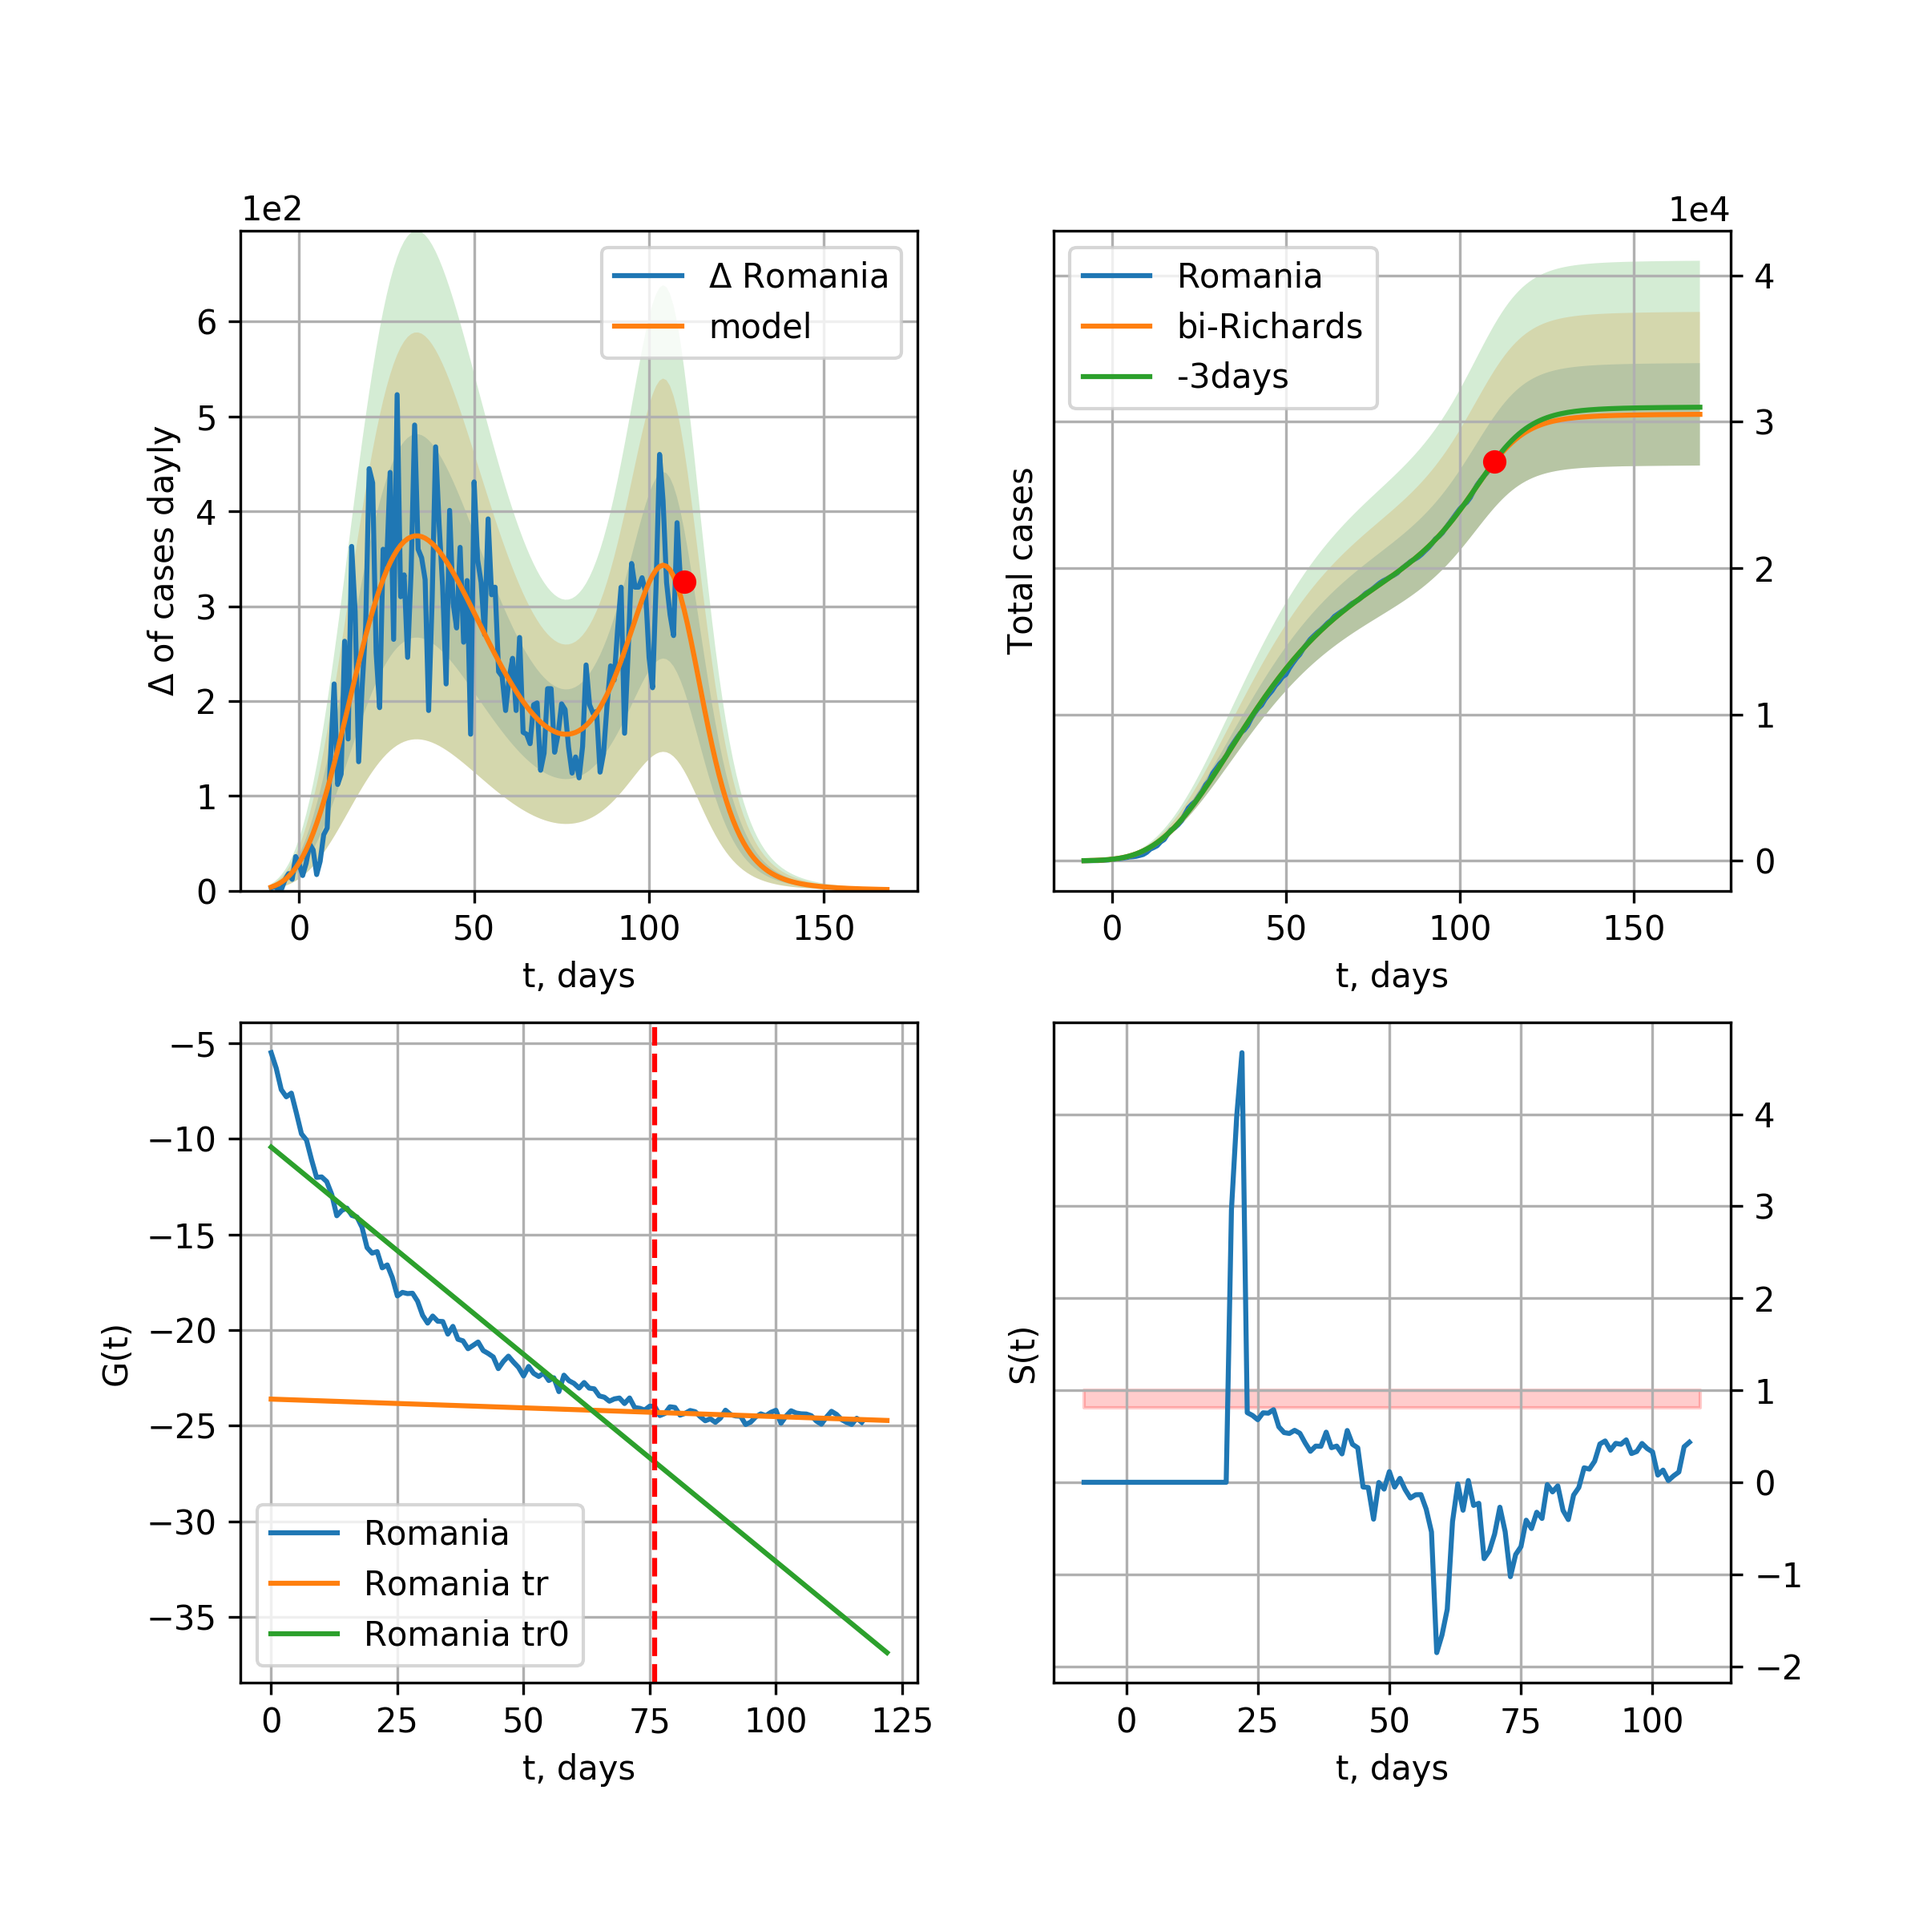
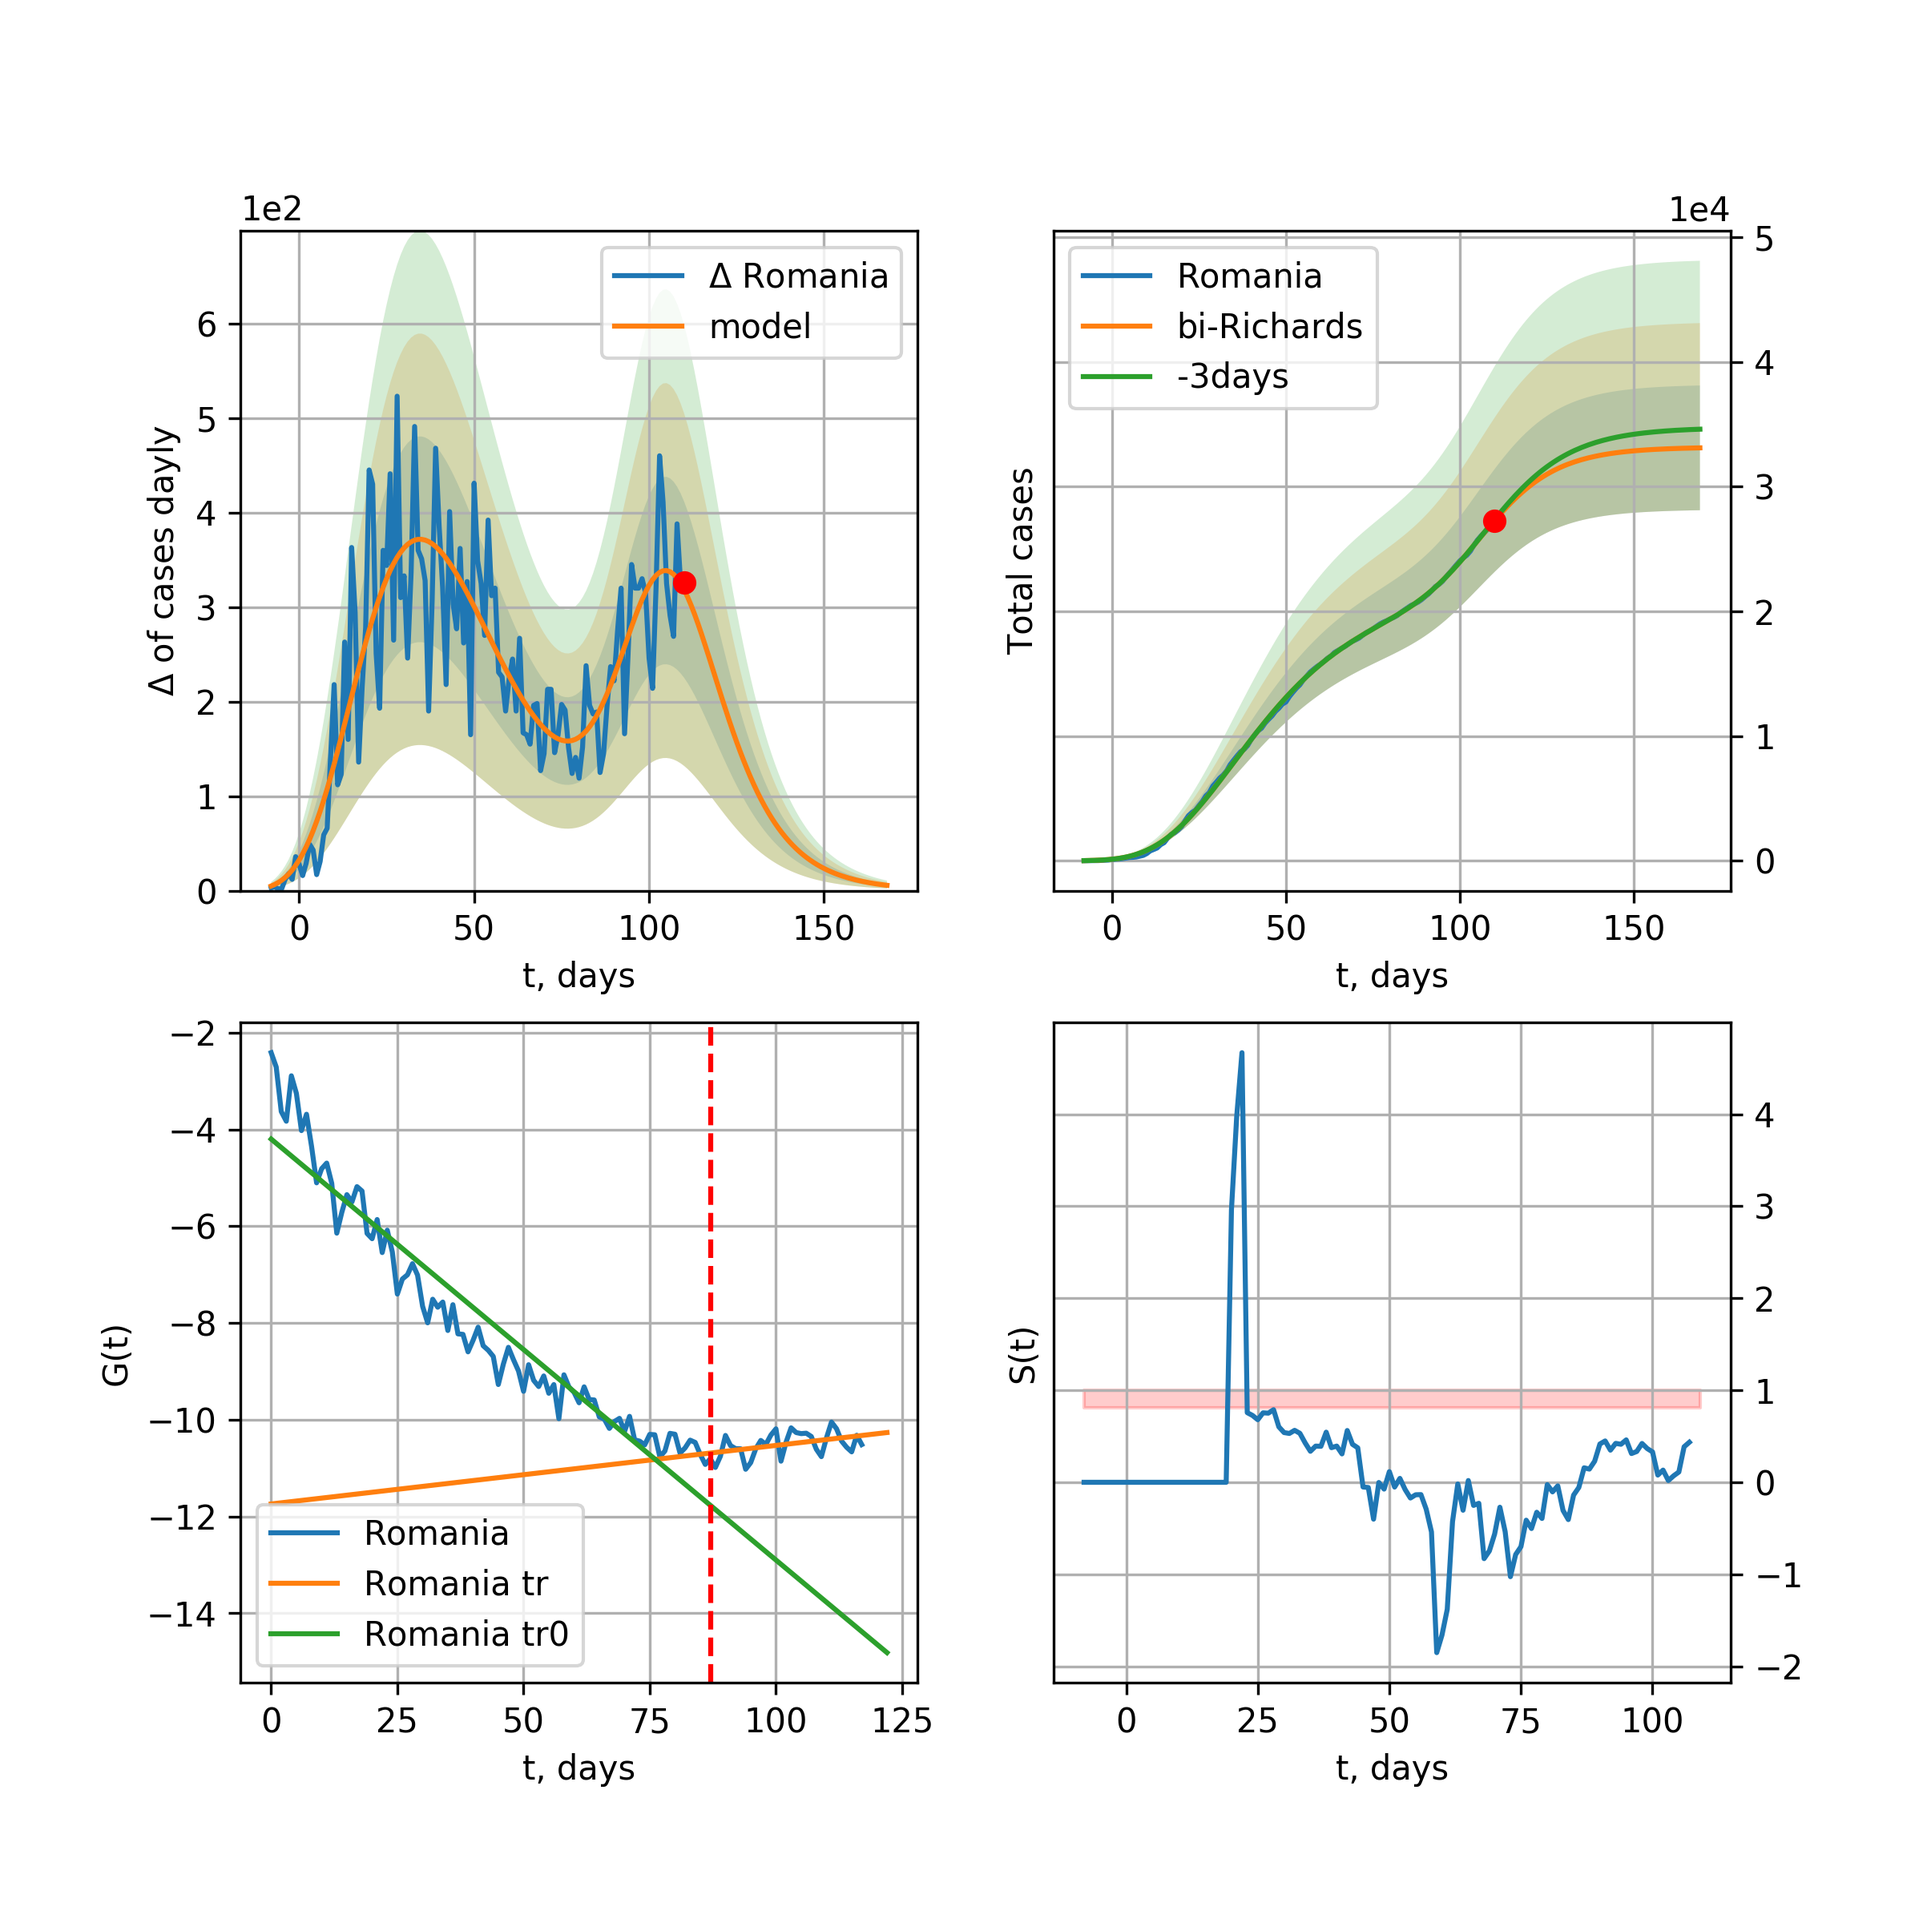
RM renew 2020-06-30

diff --git a/_site/index.html b/_site/index.html
@@ -838,20 +838,20 @@ trend coefficient of determination: 0.026501 <br />
     <img src="pictures/covidcasesRomania36_R.png" alt="hi" class="inline"/><br /> 
 
       Romania data at: 2020-07-01<br />
-+3 day model MAPE: 0.002590<br />
++3 day model MAPE: 0.003655<br />
 model: bi-Richards<br />
-coeffs: [1.01648992e+04 8.05249303e-02 1.09388334e+02 1.99654842e+00]<br />
-rational stdev: 0.114676<br />
+coeffs: [1.18908519e+04 1.50563240e-01 1.00419929e+02 5.95896732e-01]<br />
+rational stdev: 0.151037<br />
 forecast at the end of period: +59 days<br />
-	 deltaDaycases: 1<br />
-	 total cases: 30509 ± 3498<br />
-	 total death: 1863 ± 640<br />
-bi-Richards approximation splitting point: 76<br />
-trend coefficient of determination: 0.880586 <br />
- intercept: -10.426206 <br />
- slope: -0.216750<br />trend coefficient of determination: 0.195814 <br />
- intercept: -23.608756 <br />
- slope: -0.009149<br />
+	 deltaDaycases: 5<br />
+	 total cases: 33115 ± 5001<br />
+	 total death: 2022 ± 916<br />
+bi-Richards approximation splitting point: 87<br />
+trend coefficient of determination: 0.920387 <br />
+ intercept: -4.197316 <br />
+ slope: -0.087033<br />trend coefficient of determination: 0.191690 <br />
+ intercept: -11.741564 <br />
+ slope: 0.012101<br />
           <br /> 
     Panama
     <br />
